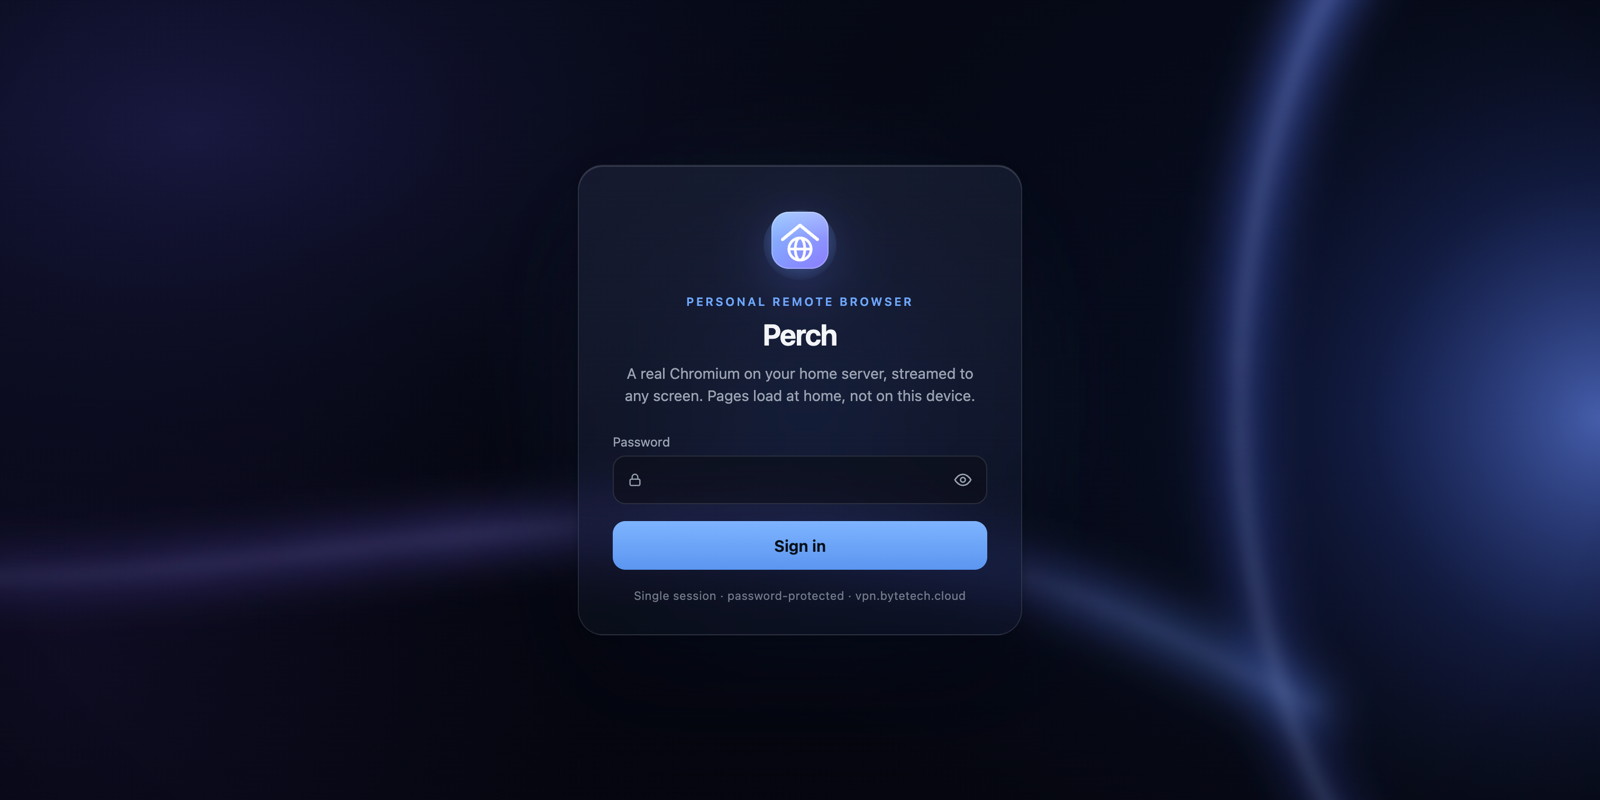
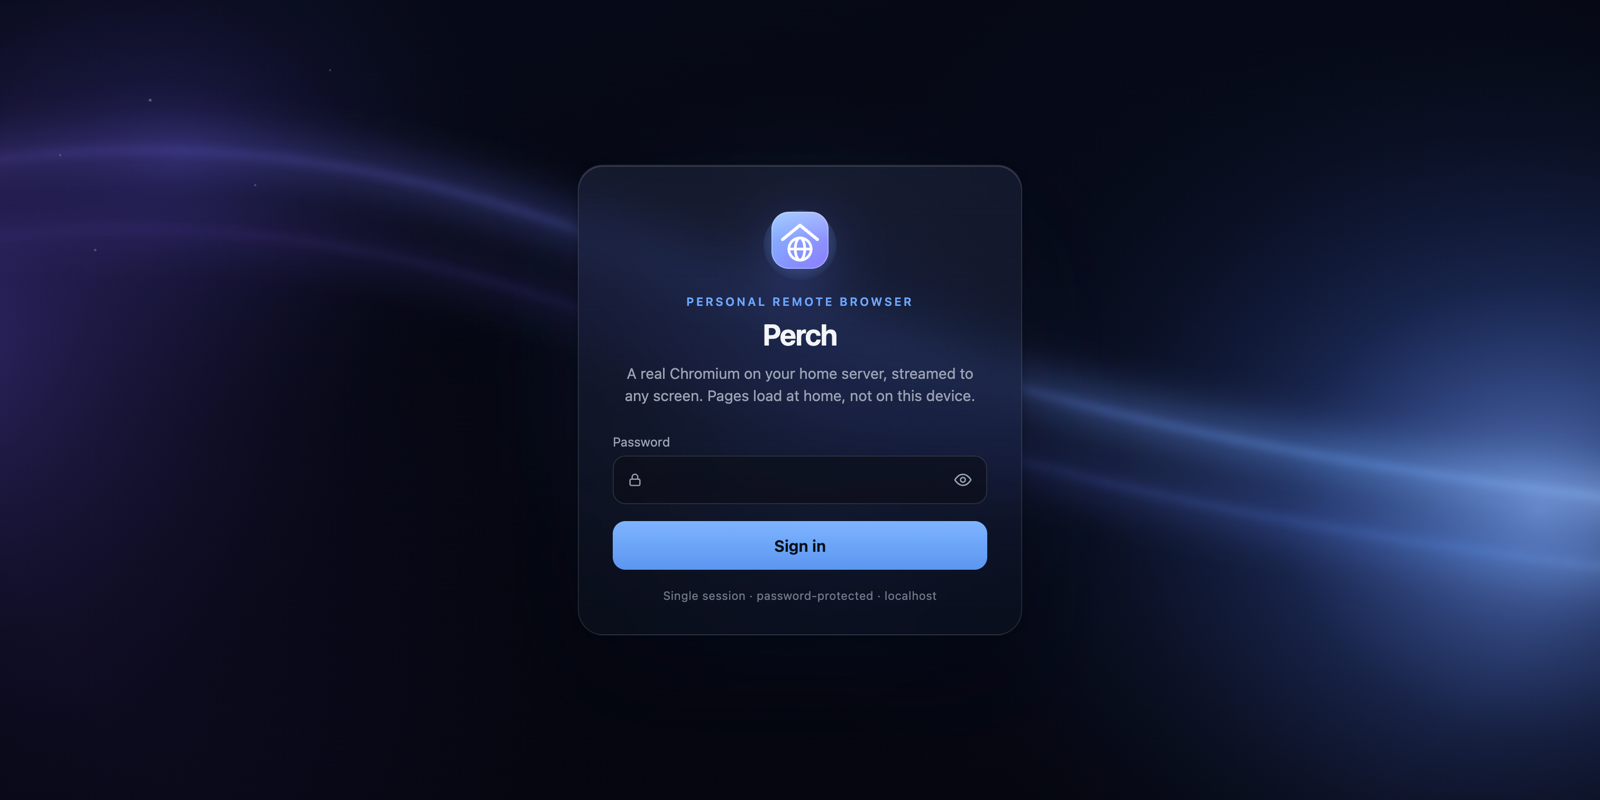
README: professional cleanup + refresh login screenshot
- Restructure into standard sections: Features, Table of contents, Configuration
  (env-var table), Verify it works, Usage, How it works, Reverse proxy (TLS).
- Rename awkward headings (Pass tests, Window chrome, Reverse proxy (later)) and add
  language tags to all code fences.
- Consolidate the scattered environment-variable notes into one table.
- Replace the login screenshot with the current single-wave design.

Claude-Session: https://claude.ai/code/session_018cwE7G9e5WDkhemE7RWenU

diff --git a/README.md b/README.md
@@ -1,10 +1,10 @@
 # Perch
 
-**Perch is a personal remote browser.** A real Chromium runs on your home server and streams to any phone or laptop; the pages actually load **at home**, not on the device in your hand. Open a desktop-style browser UI anywhere, and frames stream into the viewport over WebSocket. Mouse, wheel, keyboard, and paste are forwarded with Chrome DevTools Protocol.
+**Perch is a personal remote browser.** A real Chromium runs on your home server and streams to any phone or laptop; the pages actually load **at home**, not on the device in your hand. Open a desktop-style browser UI anywhere, and frames stream into the viewport over WebSocket. Mouse, wheel, keyboard, and paste are forwarded with the Chrome DevTools Protocol.
 
 This is **not** a VPN, **not** an HTML-rewriting proxy, and **not** an `<iframe>` of google.com (that is blocked by almost every site). It is a real remote Chromium — your own vantage on the web, kept at home.
 
-> The npm package is named `home-browser`; the Docker image is `perch-browser`; **Perch** is the product name.
+> The npm package is named `home-browser` and the Docker image is `perch-browser`; **Perch** is the product name.
 
 ## Screenshots
 
@@ -16,43 +16,66 @@ This is **not** a VPN, **not** an HTML-rewriting proxy, and **not** an `<iframe>
 
 ![Perch browser UI](docs/screenshot-app.png)
 
-## Overview
+## Features
 
-Single Chromium session: there is one browser process. A second login uses (and can take over) that same session — same cookies, same tab, same page.
+- **Real Chromium, streamed.** Pages render on the home server and stream as binary JPEG frames over WebSocket; input is forwarded with the Chrome DevTools Protocol.
+- **Egress from home.** Every site sees your home network's public IP, not the device in your hand.
+- **Tabs.** A real tab strip to open, switch, and close tabs. Popups and SSO windows take over the view and hand it back when closed.
+- **Non-blocking navigation.** Keep full mouse and keyboard control while a page loads, with no stale frames after a URL change.
+- **Sign-in friendly.** Real key events, hover-before-click, and no automation banner, so Google's "are you human?" checks and corporate SSO behave like a local browser.
+- **Phone-ready.** Touch scrolling, tap-to-click, long-press right-click, an on-screen keyboard, and a viewport sized to your screen.
+- **Single session.** One shared browser; a second login joins — and can take over — the same tabs and cookies.
 
-Later you can expose it at `https://vpn.bytetech.cloud` or `https://rdp.bytetech.cloud` behind Caddy or Nginx. The reverse proxy **must** forward WebSocket `Upgrade` headers.
+## Table of contents
+
+- [Requirements](#requirements)
+- [Run with Docker (recommended)](#run-with-docker-recommended)
+- [Run natively (Ubuntu / Debian)](#run-natively-ubuntu--debian)
+- [Configuration](#configuration)
+- [Verify it works](#verify-it-works)
+- [Usage](#usage)
+- [How it works](#how-it-works)
+- [Reverse proxy (TLS)](#reverse-proxy-tls)
+- [Health](#health)
+- [Security notes](#security-notes)
 
 ## Requirements
 
-- Docker & Docker Compose (recommended), OR Node.js 20+ with Google Chrome/Chromium
-- A long password (12+ characters) in `.env`
+- Docker and Docker Compose (recommended), **or** Node.js 20+ with Google Chrome / Chromium installed
+- A long password (12+ characters) for `APP_PASSWORD`
 
-## Run with Docker (Recommended)
+Single Chromium session: there is one browser process. A second login uses — and can take over — that same session, sharing its cookies, tabs, and page.
 
-### Using Docker Compose
+## Run with Docker (recommended)
 
-1. Prepare your `.env` configuration:
+### Docker Compose
+
+1. Create your configuration from the template and set a password:
+
    ```bash
    cp .env.example .env
    nano .env                     # set APP_PASSWORD to 12+ characters
    ```
 
-2. Start the container in detached mode:
+2. Start the container:
+
    ```bash
    docker compose up -d
    ```
 
 3. Follow the logs:
+
    ```bash
    docker compose logs -f
    ```
 
-To stop:
+Stop it with:
+
 ```bash
 docker compose down
 ```
 
-### Using `docker run` directly
+### `docker run`
 
 ```bash
 docker volume create perch-chrome-profile
@@ -68,7 +91,7 @@ docker run -d \
   dpksamir/perch-browser:latest
 ```
 
-### Build and run from local Dockerfile
+### Build from source
 
 ```bash
 docker build -t perch-browser .
@@ -94,7 +117,7 @@ sudo apt-get update
 sudo apt-get install -y chromium || sudo apt-get install -y chromium-browser
 ```
 
-Confirm binaries:
+Confirm the binaries:
 
 ```bash
 node -v          # v20 or newer
@@ -106,51 +129,35 @@ which chromium || which chromium-browser || which google-chrome-stable
 From this repo on the **home server**:
 
 ```bash
-cd /opt/home-browser          # or wherever you cloned/copied this repo
+cd /opt/perch                 # or wherever you cloned this repo
 cp .env.example .env
 nano .env                     # set APP_PASSWORD to 12+ characters
 npm install
 npm start
 ```
 
-`.env`:
+Then open `http://<home-lan-ip>:8080` (for example, `http://192.168.1.50:8080`) and log in with the password from `.env`. The login is real; any other password is rejected.
 
-```
-APP_PASSWORD=choose-a-long-password
-APP_USER=admin
-HOST=0.0.0.0
-PORT=8080
-HOME_URL=https://www.google.com/
-CHROME_PATH=
-CHROME_NO_SANDBOX=0
-CHROME_HEADLESS=1
-CHROME_USER_DATA=
-JPEG_QUALITY=60
-```
+## Configuration
 
-- `APP_PASSWORD` is required. The process **refuses to start** if it is missing or shorter than 12 characters.
-- Leave `CHROME_PATH` empty to auto-detect Chrome/Chromium. Set it if the binary lives somewhere unusual.
-- If Chromium fails with a sandbox error (common on some VPS / LXC hosts), set `CHROME_NO_SANDBOX=1`. Prefer a real user namespace sandbox when you can.
-- `CHROME_HEADLESS=0` runs a real (headed) Chromium under Xvfb. This is what the Docker image does and it is what you want for Google, CAPTCHAs and corporate sign-in pages: headless Chromium is easy to detect and gets challenged much more often.
-- `CHROME_USER_DATA` keeps cookies and site trust between restarts. Losing the profile on every restart means every site treats you as a brand-new visitor.
-- `JPEG_QUALITY` (20-95) trades sharpness for bandwidth. Try 45 on a slow mobile link.
+All settings are read from environment variables (via `.env` when running natively, or `-e` / Compose `environment` in Docker).
 
-Open:
+| Variable            | Default                    | Description                                                                                                 |
+| ------------------- | -------------------------- | ----------------------------------------------------------------------------------------------------------- |
+| `APP_PASSWORD`      | _(required)_               | Login password. The process **refuses to start** if it is missing or shorter than 12 characters.            |
+| `APP_USER`          | `admin`                    | Display name for the signed-in user.                                                                        |
+| `HOST`              | `0.0.0.0`                  | Address the server binds to.                                                                                 |
+| `PORT`              | `8080`                     | Port the server listens on.                                                                                  |
+| `HOME_URL`          | `https://www.google.com/`  | Page the **Home** button loads.                                                                             |
+| `CHROME_PATH`       | _(auto-detect)_            | Path to the Chrome / Chromium binary. Leave empty to auto-detect; set it if the binary lives somewhere unusual. |
+| `CHROME_NO_SANDBOX` | `0`                        | Set to `1` if Chromium fails with a sandbox error (common on some VPS / LXC hosts). Prefer a real user-namespace sandbox where possible. |
+| `CHROME_HEADLESS`   | `1`                        | `0` runs a real (headed) Chromium under Xvfb — the Docker default, and the mode you want for Google, CAPTCHAs, and corporate sign-in, since headless Chromium is easier to detect and gets challenged more often. |
+| `CHROME_USER_DATA`  | _(temporary)_              | Directory for the Chrome profile. Set it to keep cookies and site trust between restarts; otherwise every site treats each restart as a brand-new visitor. |
+| `JPEG_QUALITY`      | `60`                       | Frame quality, 20–95. Lower trades sharpness for bandwidth; try `45` on a slow mobile link.                  |
 
-```
-http://HOME_LAN_IP:8080
-```
+## Verify it works
 
-Example: `http://192.168.1.50:8080`
-
-Log in with the password from `.env`. The login is real. Any other password is rejected.
-
-## Pass tests
-
-1. **Find my IP**
-   - Click the **Find my IP** speed dial, or type `ifconfig.me` / `find my ip` in the in-app address bar.
-   - The page in the viewport must show the **house public IP** (the home server’s egress), not the laptop or phone IP.
-   - `GET /api/ip` (while logged in) returns `{ "egress_ip": "..." }` from `api.ipify.org`, fetched **on the server**. That value must match.
+1. **Egress is the home server.** Click the **Find my IP** speed dial, or type `ifconfig.me` / `find my ip` in the address bar. The page must show the **home server's public IP**, not the laptop or phone. The same value is returned by the API, fetched on the server:
 
    ```bash
    # after login, from a machine that has the session cookie — or from the server:
@@ -158,63 +165,63 @@ Log in with the password from `.env`. The login is real. Any other password is r
    # 401 without a session cookie, as expected
    ```
 
-2. **Google typing**
-   - Type `google.com` in the in-app address bar and press Go.
-   - Click the Google search box **inside the viewport** and type. Characters must appear. That proves input is reaching real Chromium, not a screenshot.
+2. **Input reaches real Chromium.** Type `google.com` and press **Go**, then click the Google search box **inside the viewport** and type. Characters must appear — proof that input reaches a live Chromium, not a screenshot.
 
-## Address bar
+## Usage
+
+### Address bar
 
 - `example.com` → `https://example.com`
 - Text with no dot (and no scheme) → Google search
 - `find my ip` / `what is my ip` / `ifconfig.me` → `https://ifconfig.me/`
 
-## Window chrome
-
-- **Maximize** — CSS class, the window fills the page
-- **Fullscreen** — Fullscreen API on the browser shell. Address bar stays visible. Esc exits.
-- **Focus** — hides the title bar and status bar
-- **Ctrl/Cmd+L** — focus the address bar
-- **F11** — toggle fullscreen
-
-## How it works
-
-Node.js launches system Chromium with `puppeteer-core`, talks to it over Chrome DevTools Protocol (pipe / loopback only — debug port is never published on `0.0.0.0:9222`), and forwards mouse, wheel, keyboard, and paste.
-
-Frames come from Chromium's own `Page.startScreencast`: Chromium pushes a JPEG only when pixels change, so an idle page costs nothing and a scrolling page streams at the compositor rate. Frames travel as **binary** WebSocket messages (a 9-byte header plus the JPEG, no base64, no JSON), and the client decodes them off the main thread with `createImageBitmap`, always painting only the newest one.
-
-Navigation is non-blocking. Changing the URL sends `Page.navigate` and returns; you keep full mouse and keyboard control while the site loads, and the viewport is cleared the moment you hit Go. Every navigation bumps an *epoch*; frames from the old document are dropped, so you never see stale content from the previous URL after a URL change. JavaScript dialogs (`alert`, `confirm`, `beforeunload`) are auto-answered so they can never wedge the stream, and downloads are refused.
-
-Popups and new tabs (SSO sign-in windows, `target=_blank` links) take over the view automatically. When such a window closes, the view returns to the page that opened it, which is what an OAuth / SSO round-trip expects.
-
-Keyboard input is delivered as real `keyDown` / `keyUp` events (with `text` for printable keys), not text insertion, so sites that listen to key events behave like they do locally. A Mac client's Cmd is translated to Ctrl when Chromium runs on Linux, so Cmd+A / Cmd+C / Cmd+V work. Chromium is launched without the automation banner or the `navigator.webdriver` flag, and in headless mode the `HeadlessChrome` user agent (including client hints) is rewritten.
-
-Until the first real navigation, the viewport shows the new-tab start page (Google, YouTube, Find my IP, Wikipedia). After that it becomes the live stream.
-
 ### Tabs
 
-The title bar is a real tab strip. **+** opens a new tab (it shows the start page), clicking a tab switches to it, and **×** (or a middle-click) closes it. Closing the last tab opens a fresh blank one so the browser is never left without a page. Because there is a single shared Chromium, everyone signed in sees and controls the same set of tabs. Links that open a new tab or window (SSO sign-in, `target=_blank`) appear in the strip and take over the view; closing such a tab returns you to the one that opened it.
+The title bar is a real tab strip. **+** opens a new tab (showing the start page), clicking a tab switches to it, and **×** (or a middle-click) closes it. Closing the last tab opens a fresh blank one, so the browser is never left without a page. Because there is a single shared Chromium, everyone signed in sees and controls the same set of tabs. Links that open a new tab or window (SSO sign-in, `target=_blank`) appear in the strip and take over the view; closing such a tab returns you to the one that opened it.
+
+### Window and keyboard controls
+
+- **Maximize** — the window fills the page.
+- **Fullscreen** — uses the Fullscreen API; the address bar stays visible, and `Esc` exits.
+- **Focus** — hides the title bar and status bar.
+- **Ctrl/Cmd + L** — focus the address bar.
+- **F11** — toggle fullscreen.
 
 ### Latency
 
-The chart icon next to Focus mode opens a small panel with the live connection stats: round-trip time to the home server, frames per second, bandwidth, and the remote viewport size. The dot on the icon is green under ~80 ms, amber under ~200 ms, red above. Use it to tell an unresponsive site apart from a slow link.
+The chart icon next to **Focus** opens a panel with live connection stats: round-trip time to the home server, frames per second, bandwidth, and the remote viewport size. The dot on the icon is green under ~80 ms, amber under ~200 ms, and red above — handy for telling an unresponsive site apart from a slow link.
 
 ### Phones and tablets
 
-- One finger drag scrolls, a still tap clicks, a long press right-clicks.
-- Tapping a text field raises the phone keyboard automatically. The keyboard button in the toolbar raises it manually (for fields inside cross-origin iframes, where the server cannot tell what has focus).
+- One finger drags to scroll, a still tap clicks, and a long press right-clicks.
+- Tapping a text field raises the on-screen keyboard automatically. The keyboard button in the toolbar raises it manually — useful for fields inside cross-origin iframes, where the server cannot tell what has focus.
 - The remote viewport is sized to your screen (down to 360 px wide), so responsive sites render their mobile layout instead of a shrunken desktop page.
 
-### Google "are you a human?" and corporate sign-in pages
+### Google "are you a human?" and corporate sign-in
 
-Run headed (`CHROME_HEADLESS=0`, the Docker default) with a persistent profile (`CHROME_USER_DATA`, the Docker volume). Headless Chromium plus a fresh profile is the combination that trips reCAPTCHA. With this pass, clicks reach the CAPTCHA iframe with a preceding hover, key events are real, and nothing is dropped during navigation, so the checkbox and the image challenges can be completed like in a local browser.
+Run headed (`CHROME_HEADLESS=0`, the Docker default) with a persistent profile (`CHROME_USER_DATA`, the Docker volume). Headless Chromium plus a fresh profile is the combination that trips reCAPTCHA. In this mode, clicks reach the CAPTCHA iframe with a preceding hover, key events are real, and nothing is dropped during navigation, so the checkbox and image challenges can be completed as in a local browser.
 
-## Reverse proxy (later)
+## How it works
 
-Caddy and Nginx must forward WebSocket upgrades. If they do not, the UI will load but the viewport will never become a live stream.
+Node.js launches system Chromium with `puppeteer-core` and talks to it over the Chrome DevTools Protocol (pipe / loopback only — the debug port is never published on `0.0.0.0:9222`), forwarding mouse, wheel, keyboard, and paste.
+
+Frames come from Chromium's own `Page.startScreencast`: Chromium pushes a JPEG only when pixels change, so an idle page costs nothing and a scrolling page streams at the compositor rate. Frames travel as **binary** WebSocket messages (a 9-byte header plus the JPEG — no base64, no JSON), and the client decodes them off the main thread with `createImageBitmap`, always painting only the newest one.
+
+Navigation is non-blocking. Changing the URL sends `Page.navigate` and returns; you keep full mouse and keyboard control while the site loads, and the viewport is cleared the moment you press **Go**. Every navigation bumps an _epoch_, and frames from the old document are dropped, so you never see stale content after a URL change. JavaScript dialogs (`alert`, `confirm`, `beforeunload`) are auto-answered so they can never wedge the stream, and downloads are refused.
+
+Popups and new tabs (SSO sign-in windows, `target=_blank` links) take over the view automatically. When such a window closes, the view returns to the page that opened it — what an OAuth / SSO round-trip expects.
+
+Keyboard input is delivered as real `keyDown` / `keyUp` events (with `text` for printable keys), not text insertion, so sites that listen to key events behave as they do locally. A Mac client's Cmd is translated to Ctrl when Chromium runs on Linux, so Cmd+A / Cmd+C / Cmd+V work. Chromium is launched without the automation banner or the `navigator.webdriver` flag, and in headless mode the `HeadlessChrome` user agent (including client hints) is rewritten.
+
+Until the first real navigation, the viewport shows the new-tab start page (Google, YouTube, Find my IP, Wikipedia). After that it becomes the live stream.
+
+## Reverse proxy (TLS)
+
+To serve Perch over HTTPS, put it behind Caddy or Nginx. The proxy **must** forward WebSocket `Upgrade` headers; otherwise the UI loads but the viewport never becomes a live stream.
 
 **Caddy**
 
-```
+```caddy
 vpn.bytetech.cloud {
     reverse_proxy 127.0.0.1:8080
 }
@@ -222,7 +229,7 @@ vpn.bytetech.cloud {
 
 **Nginx**
 
-```
+```nginx
 location / {
     proxy_pass http://127.0.0.1:8080;
     proxy_http_version 1.1;
@@ -235,7 +242,7 @@ location / {
 }
 ```
 
-The session cookie is `httpOnly`, `SameSite=Lax`, and `Secure` when `X-Forwarded-Proto` is `https`.
+The session cookie is `HttpOnly` and `SameSite=Lax`, and is marked `Secure` when `X-Forwarded-Proto` is `https`.
 
 ## Health
 
@@ -246,6 +253,6 @@ curl -s http://127.0.0.1:8080/health
 ## Security notes
 
 - Do not expose port 8080 on the public internet without TLS and the reverse proxy.
-- Login is rate-limited. Passwords are never logged.
-- Chromium’s DevTools port is bound to loopback / a pipe only. Do not publish `9222`.
-- This app sees whatever the home server can fetch. Treat the password like a house key.
+- Login is rate-limited, and passwords are never logged.
+- Chromium's DevTools port is bound to loopback / a pipe only. Do not publish `9222`.
+- This app can reach whatever the home server can reach. Treat the password like a house key.
